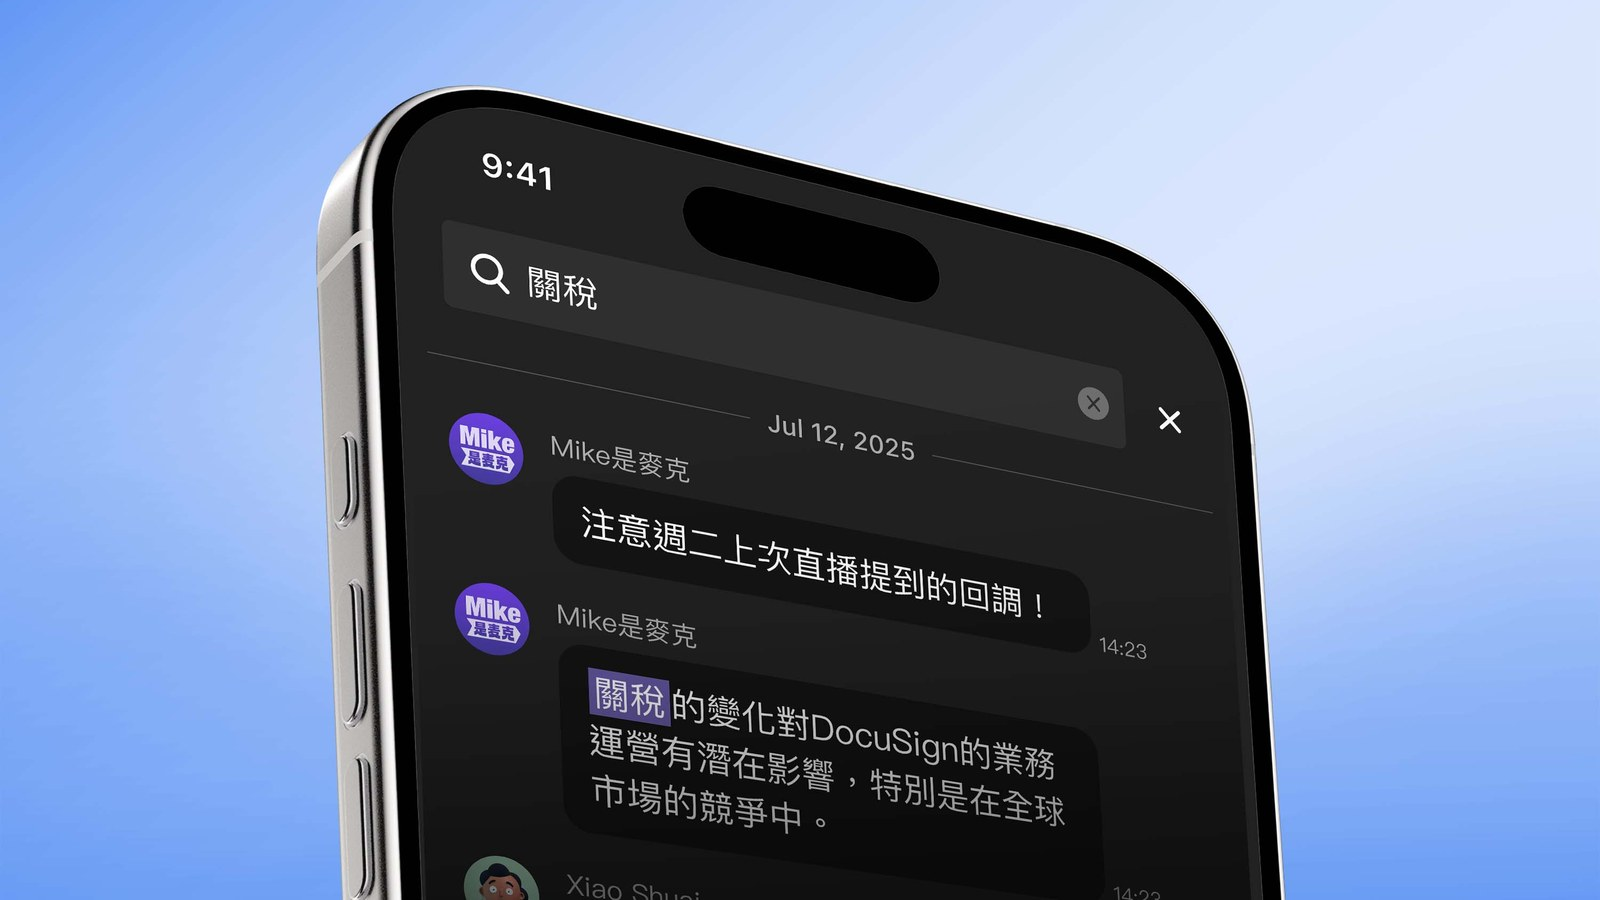
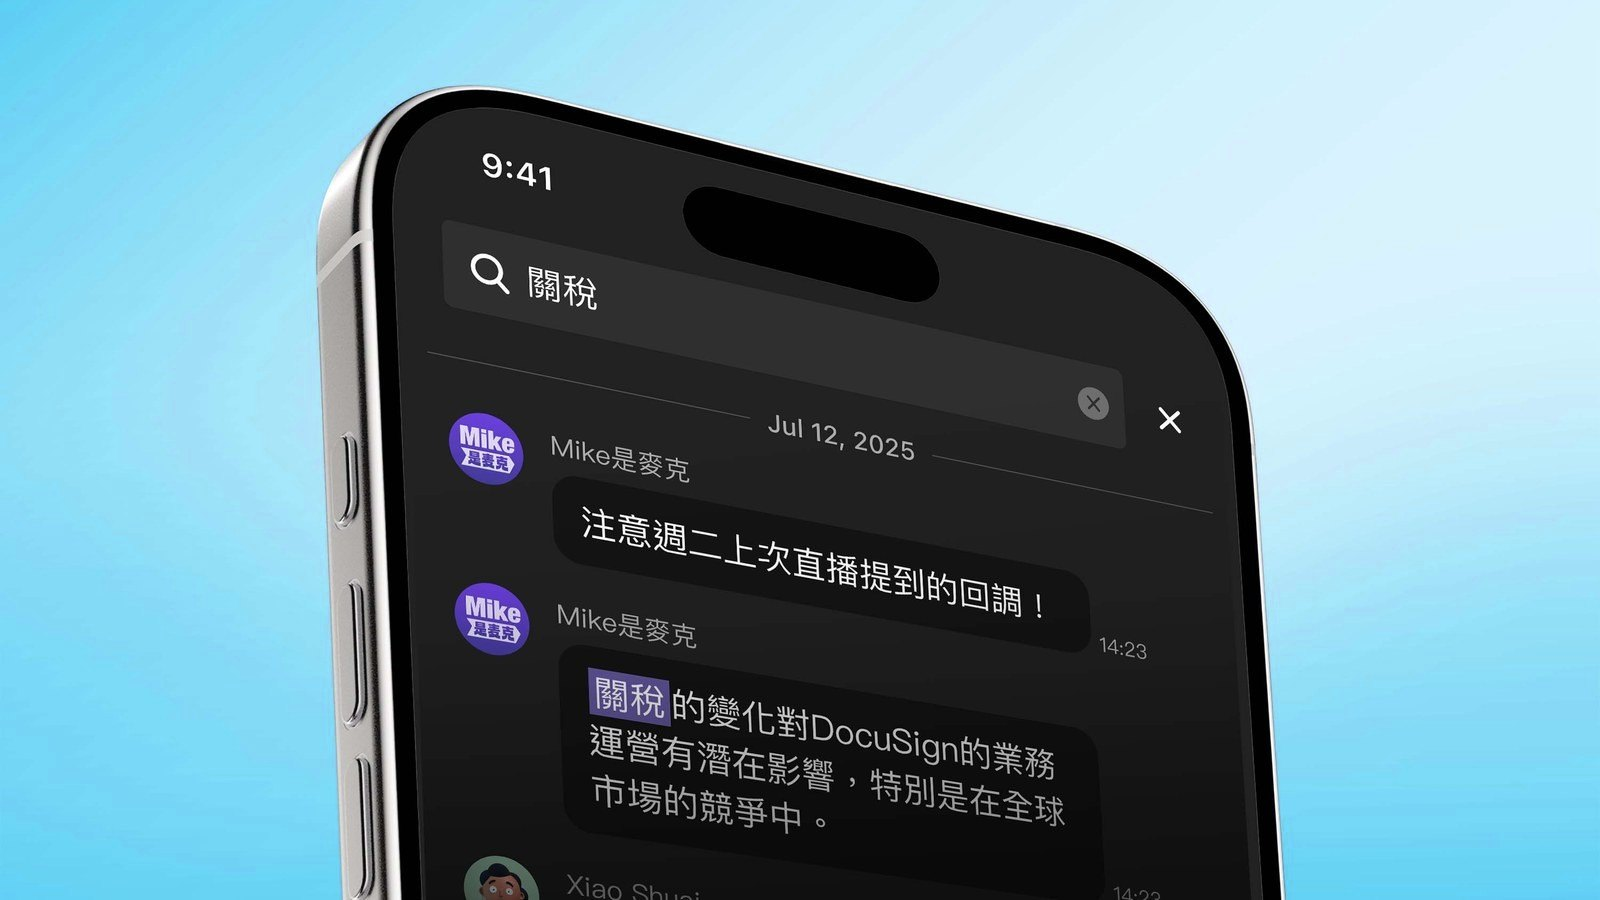
06 作品卡改 DS 水藍色，卡片圖背景同步改為水藍色調
Claude-Session: https://claude.ai/code/session_01GjEy689vh6dg91TD7dTNVD

diff --git a/works.html b/works.html
@@ -40,7 +40,7 @@
       <a class="jade-project-card wk-card" data-cat="package" href="works/work-03-package.html" data-tone="cyan"><div class="jade-project-card__head"><span class="jade-project-card__index">03</span><span class="jade-project-card__rule" aria-hidden="true"></span><span class="jade-project-card__label">艾沛膚</span><span class="jade-project-card__icon" aria-hidden="true"><svg viewBox="0 0 24 24" fill="none" stroke="currentColor" stroke-width="2.2" stroke-linecap="round" stroke-linejoin="round"><path d="M7 17 17 7M8 7h9v9"/></svg></span></div><div class="jade-project-card__media"><img src="public/works/work-03-package.webp?v=1116" width="1600" height="900" alt="Elpis 艾沛膚系列洗髮與保養產品包裝" loading="lazy" decoding="async"></div><div class="jade-project-card__body"><h3 class="jade-project-card__title">系列產品包裝</h3><p class="jade-project-card__tags">包裝設計</p></div></a>
       <a class="jade-project-card wk-card" data-cat="personal" data-href="works/work-04-drawing.html" aria-disabled="true" data-tone="pink"><div class="jade-project-card__head"><span class="jade-project-card__index">04</span><span class="jade-project-card__rule" aria-hidden="true"></span><span class="jade-project-card__label">PERSONAL PROJECT</span><span class="jade-project-card__icon" aria-hidden="true"><svg viewBox="0 0 24 24" fill="none" stroke="currentColor" stroke-width="2.2" stroke-linecap="round" stroke-linejoin="round"><path d="M7 17 17 7M8 7h9v9"/></svg></span></div><div class="jade-project-card__media"><img src="public/works/work-04-drawing.webp" width="1600" height="900" alt="30 Day Drawing 素描本，人物鉛筆速寫" loading="lazy" decoding="async"></div><div class="jade-project-card__body"><h3 class="jade-project-card__title">30日繪畫計畫</h3><p class="jade-project-card__tags">插畫創作 · 風格探索 · 每日練習</p></div></a>
       <a class="jade-project-card wk-card" data-cat="uiux" href="works/work-05-kolapp.html" data-tone="lime"><div class="jade-project-card__head"><span class="jade-project-card__index">05</span><span class="jade-project-card__rule" aria-hidden="true"></span><span class="jade-project-card__label">YouTuber Better Leaf 好葉</span><span class="jade-project-card__icon" aria-hidden="true"><svg viewBox="0 0 24 24" fill="none" stroke="currentColor" stroke-width="2.2" stroke-linecap="round" stroke-linejoin="round"><path d="M7 17 17 7M8 7h9v9"/></svg></span></div><div class="jade-project-card__media"><img src="public/works/work-05-kolapp.webp?v=1116d" width="1600" height="900" alt="好葉智能選股 App 啟動畫面" loading="lazy" decoding="async"></div><div class="jade-project-card__body"><h3 class="jade-project-card__title">好葉智能選股APP</h3><p class="jade-project-card__tags">APP主視覺規劃</p></div></a>
-      <a class="jade-project-card wk-card" data-cat="uiux" href="works/work-06-chat.html" data-tone="lavender"><div class="jade-project-card__head"><span class="jade-project-card__index">06</span><span class="jade-project-card__rule" aria-hidden="true"></span><span class="jade-project-card__label">YouTuber Mike是麥克</span><span class="jade-project-card__icon" aria-hidden="true"><svg viewBox="0 0 24 24" fill="none" stroke="currentColor" stroke-width="2.2" stroke-linecap="round" stroke-linejoin="round"><path d="M7 17 17 7M8 7h9v9"/></svg></span></div><div class="jade-project-card__media"><img src="public/works/work-06-chat-card.webp?v=1118s" width="1600" height="900" alt="App 聊天室關鍵字搜尋畫面" loading="lazy" decoding="async"></div><div class="jade-project-card__body"><h3 class="jade-project-card__title">APP功能優化</h3><p class="jade-project-card__tags">聊天室關鍵字搜尋</p></div></a>
+      <a class="jade-project-card wk-card" data-cat="uiux" href="works/work-06-chat.html" data-tone="cyan"><div class="jade-project-card__head"><span class="jade-project-card__index">06</span><span class="jade-project-card__rule" aria-hidden="true"></span><span class="jade-project-card__label">YouTuber Mike是麥克</span><span class="jade-project-card__icon" aria-hidden="true"><svg viewBox="0 0 24 24" fill="none" stroke="currentColor" stroke-width="2.2" stroke-linecap="round" stroke-linejoin="round"><path d="M7 17 17 7M8 7h9v9"/></svg></span></div><div class="jade-project-card__media"><img src="public/works/work-06-chat-card.webp?v=1119c" width="1600" height="900" alt="App 聊天室關鍵字搜尋畫面" loading="lazy" decoding="async"></div><div class="jade-project-card__body"><h3 class="jade-project-card__title">APP功能優化</h3><p class="jade-project-card__tags">聊天室關鍵字搜尋</p></div></a>
       <a class="jade-project-card wk-card" data-cat="graphic" href="works/work-07-pdp.html" data-tone="yellow"><div class="jade-project-card__head"><span class="jade-project-card__index">07</span><span class="jade-project-card__rule" aria-hidden="true"></span><span class="jade-project-card__label">易廣健康事業</span><span class="jade-project-card__icon" aria-hidden="true"><svg viewBox="0 0 24 24" fill="none" stroke="currentColor" stroke-width="2.2" stroke-linecap="round" stroke-linejoin="round"><path d="M7 17 17 7M8 7h9v9"/></svg></span></div><div class="jade-project-card__media"><img src="public/works/work-07-pdp/web-card.webp?v=1118t" width="1600" height="900" alt="天萃苑益生漾電商商品頁" loading="lazy" decoding="async"></div><div class="jade-project-card__body"><h3 class="jade-project-card__title">益生菌電商商品頁</h3><p class="jade-project-card__tags">PDP 商店頁設計</p></div></a>
       <a class="jade-project-card wk-card" data-cat="graphic" href="works/work-08-pdp.html" data-tone="coral"><div class="jade-project-card__head"><span class="jade-project-card__index">08</span><span class="jade-project-card__rule" aria-hidden="true"></span><span class="jade-project-card__label">正官庄 × Mr. Donothing</span><span class="jade-project-card__icon" aria-hidden="true"><svg viewBox="0 0 24 24" fill="none" stroke="currentColor" stroke-width="2.2" stroke-linecap="round" stroke-linejoin="round"><path d="M7 17 17 7M8 7h9v9"/></svg></span></div><div class="jade-project-card__media"><img src="public/works/work-08-pdp/web-card.webp" width="1600" height="900" alt="凝神99禮盒聯名電商商品頁" loading="lazy" decoding="async"></div><div class="jade-project-card__body"><h3 class="jade-project-card__title">凝神99禮盒聯名商品頁</h3><p class="jade-project-card__tags">PDP 商店頁設計</p></div></a>
       <a class="jade-project-card wk-card" data-cat="graphic" href="works/work-09-OPENLAB.html" data-tone="cyan"><div class="jade-project-card__head"><span class="jade-project-card__index">09</span><span class="jade-project-card__rule" aria-hidden="true"></span><span class="jade-project-card__label">CMoney</span><span class="jade-project-card__icon" aria-hidden="true"><svg viewBox="0 0 24 24" fill="none" stroke="currentColor" stroke-width="2.2" stroke-linecap="round" stroke-linejoin="round"><path d="M7 17 17 7M8 7h9v9"/></svg></span></div><div class="jade-project-card__media"><img src="public/works/work-09-OPENLAB/web-card.webp" width="1600" height="900" alt="達Q貓從扭蛋中彈出的活動主視覺" loading="lazy" decoding="async"></div><div class="jade-project-card__body"><h3 class="jade-project-card__title">籌碼K線 拉新用戶活動</h3><p class="jade-project-card__tags">互動式 Landing Page</p></div></a>

diff --git a/index.html b/index.html
@@ -130,7 +130,7 @@
       <a class="jade-project-card" href="works/work-03-package.html" data-tone="cyan"><div class="jade-project-card__head"><span class="jade-project-card__index">03</span><span class="jade-project-card__rule" aria-hidden="true"></span><span class="jade-project-card__label">艾沛膚</span></div><div class="jade-project-card__media"><img src="public/works/work-03-package.webp?v=1116" width="1600" height="900" alt="Elpis 艾沛膚系列洗髮與保養產品包裝" loading="lazy" decoding="async"></div><div class="jade-project-card__body"><h3 class="jade-project-card__title">系列產品包裝</h3><p class="jade-project-card__tags">包裝設計</p></div></a>
       <article class="jade-project-card" data-tone="pink"><div class="jade-project-card__head"><span class="jade-project-card__index">04</span><span class="jade-project-card__rule" aria-hidden="true"></span><span class="jade-project-card__label">PERSONAL PROJECT</span></div><div class="jade-project-card__media"><img src="public/works/work-04-drawing.webp" width="1600" height="900" alt="30 Day Drawing 素描本，人物鉛筆速寫" loading="lazy" decoding="async"></div><div class="jade-project-card__body"><h3 class="jade-project-card__title">30日繪畫計畫</h3><p class="jade-project-card__tags">插畫創作 · 風格探索 · 每日練習</p></div></article>
       <a class="jade-project-card" href="works/work-05-kolapp.html" data-tone="lime"><div class="jade-project-card__head"><span class="jade-project-card__index">05</span><span class="jade-project-card__rule" aria-hidden="true"></span><span class="jade-project-card__label">YouTuber Better Leaf 好葉</span></div><div class="jade-project-card__media"><img src="public/works/work-05-kolapp.webp?v=1116d" width="1600" height="900" alt="好葉智能選股 App 啟動畫面" loading="lazy" decoding="async"></div><div class="jade-project-card__body"><h3 class="jade-project-card__title">好葉智能選股APP</h3><p class="jade-project-card__tags">APP主視覺規劃</p></div></a>
-      <a class="jade-project-card" href="works/work-06-chat.html" data-tone="lavender"><div class="jade-project-card__head"><span class="jade-project-card__index">06</span><span class="jade-project-card__rule" aria-hidden="true"></span><span class="jade-project-card__label">YouTuber Mike是麥克</span></div><div class="jade-project-card__media"><img src="public/works/work-06-chat-card.webp?v=1118s" width="1600" height="900" alt="App 聊天室關鍵字搜尋畫面" loading="lazy" decoding="async"></div><div class="jade-project-card__body"><h3 class="jade-project-card__title">APP功能優化</h3><p class="jade-project-card__tags">聊天室關鍵字搜尋</p></div></a>
+      <a class="jade-project-card" href="works/work-06-chat.html" data-tone="cyan"><div class="jade-project-card__head"><span class="jade-project-card__index">06</span><span class="jade-project-card__rule" aria-hidden="true"></span><span class="jade-project-card__label">YouTuber Mike是麥克</span></div><div class="jade-project-card__media"><img src="public/works/work-06-chat-card.webp?v=1119c" width="1600" height="900" alt="App 聊天室關鍵字搜尋畫面" loading="lazy" decoding="async"></div><div class="jade-project-card__body"><h3 class="jade-project-card__title">APP功能優化</h3><p class="jade-project-card__tags">聊天室關鍵字搜尋</p></div></a>
     </div>
     <div class="work-more">
       <a class="jade-primary-button" href="works.html"><span>View all works</span><span class="jade-primary-button__icon" aria-hidden="true"><svg viewBox="0 0 24 24" fill="none" stroke="currentColor" stroke-width="2.2" stroke-linecap="round" stroke-linejoin="round"><path d="M7 17 17 7M8 7h9v9"/></svg></span></a>
